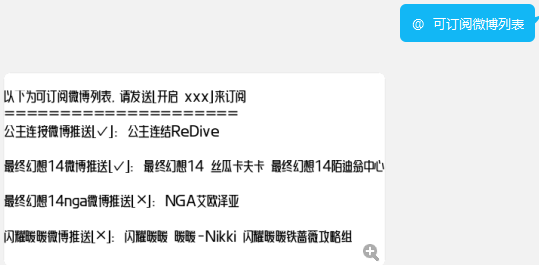
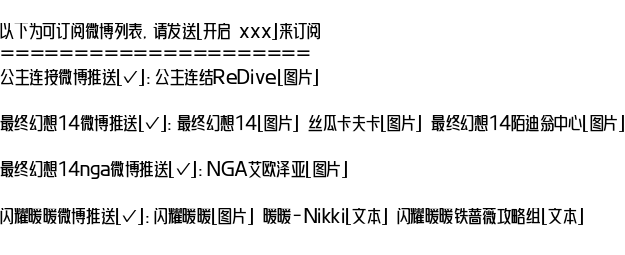
分推送组、用户提供format选项用来设定以文本推送或图片推送

diff --git a/__init__.py b/__init__.py
@@ -40,11 +40,18 @@ def _load_config():
         encoding="utf8",
     ) as f:
         configs = yaml.safe_load(f)
+    default_format = Config.get_config(Path(__file__).parent.name, "DEFAULT_FORMAT")
     for task_name, v in configs.items():
         enable_on_default = v["enable_on_default"]
         users = v["users"]
+        if "format" in v:
+            cur_format = v["format"]
+        else:
+            cur_format = default_format
         task_spider_list = []
         for user in users:
+            if "format" not in user:
+                user["format"] = cur_format
             wb_spider = WeiboSpider(user)
             task_spider_list.append(wb_spider)
         __plugin_task__[task_name] = v["desciption"]
@@ -76,10 +83,10 @@ __plugin_configs__ = {
         "help": "是否以转发模式推送微博，当配置项为true时将以转发模式推送",
         "default_value": False,
     },
-    "text_mode": {
-        "value": False,
-        "help": "是否以纯文字形式推送微博，当配置项为true时将以纯文字形式推送，反之则尽可能推送图片",
-        "default_value": False,
+    "default_format": {
+        "value": 1,
+        "help": "默认推送格式：0 文本，1 图片",
+        "default_value": 1,
     },
 }
 
@@ -103,7 +110,6 @@ weibo_update_username = on_command(
 
 driver: Driver = get_driver()
 forward_mode = Config.get_config(Path(__file__).parent.name, "FORWARD_MODE")
-text_mode = Config.get_config(Path(__file__).parent.name, "TEXT_MODE")
 
 
 @driver.on_startup
@@ -126,9 +132,12 @@ async def _(event: GroupMessageEvent):
     ret = []
     for task, spiders in tasks_dict.items():
         tmp = f'{__plugin_task__[task]}[{"√" if await group_manager.check_group_task_status(group_id, task) else "×"}]:'
+        users = []
         for spider in spiders:
-            tmp += " " + spider.get_username()
-        ret.append(tmp)
+            users.append(
+                f"{spider.get_username()}[{'图片' if spider.get_format() == 1 else '文本'}]"
+            )
+        ret.append(tmp + " ".join(users))
     await weibo_list.finish(
         image(b64=(await text2image(msg + "\n\n".join(ret) + "\n")).pic2bs4())
     )
@@ -203,8 +212,8 @@ async def wb_to_image(wb: Dict) -> bytes:
     return None
 
 
-async def process_wb(wb):
-    if not text_mode and (msg := await wb_to_image(wb)):
+async def process_wb(format: int, wb: Dict):
+    if format == 1 and (msg := await wb_to_image(wb)):
         return msg
     return wb_to_text(wb)
 
@@ -215,7 +224,8 @@ async def _():
         weibos = []
         for spider in spiders:
             latest_weibos = await spider.get_latest_weibos()
-            formatted_weibos = [(await process_wb(wb)) for wb in latest_weibos]
+            format = spider.get_format()
+            formatted_weibos = [(await process_wb(format, wb)) for wb in latest_weibos]
             if l := len(formatted_weibos):
                 logger.info(f"成功获取@{spider.get_username()}的新微博{l}条")
             else:

diff --git a/weibo_spider.py b/weibo_spider.py
@@ -29,6 +29,7 @@ class WeiboSpider(object):
         self.filter_retweet = config["filter_retweet"]
         self.user_id = config["user_id"]
         self.filter_words = config["filter_words"]
+        self.format = config["format"]
         self.received_weibo_ids = []
         self.__recent = False
         self.record_file_path = weibo_record_path / f"{self.user_id}.json"
@@ -80,6 +81,9 @@ class WeiboSpider(object):
     def get_username(self):
         return self.user_name
 
+    def get_format(self):
+        return self.format
+
     def save(self):
         with open(self.record_file_path, "w", encoding="utf8") as f:
             json.dump(self.received_weibo_ids, f, indent=4, ensure_ascii=False)
@@ -95,7 +99,7 @@ class WeiboSpider(object):
 
     def validate_config(self, config):
         """验证配置是否正确"""
-        exist_argument_list = ["user_id", "filter_words"]
+        exist_argument_list = ["user_id", "filter_words", "format"]
         true_false_argument_list = ["filter_retweet"]
 
         for argument in true_false_argument_list:

diff --git a/README.md b/README.md
@@ -4,15 +4,19 @@
 **在插件目录下的`weibo_config.yaml`中配置微博订阅项**
 
 **于真寻的`config.yaml`中改变插件的`FORWARD_MODE`配置项来设置是否以转发模式推送微博**
-> ~首次使用需要重启一次才可以在group_manager.json中增加配置项~
+
+**于真寻的`config.yaml`中改变插件的`DEFAULT_FORMAT`配置项来设置微博默认推送格式，可选格式为文本、图片**
+> format覆盖规则：组内用户配置项 > 推送组配置项 > 配置文件
 
 以下为微博订阅项说明
 ```yaml
 weibo-ff14:                         # 对应到config.yaml中_task下的DEFAULT_WEIBO_FF14
   desciption: 最终幻想14微博推送    # 群内开关，在群被动状态中可以查看，使用[开启/关闭 最终幻想14微博推送]即可控制
   enable_on_default: false          # 是否默认启用，对应到config.yaml中_task下的DEFAULT_WEIBO_FF14: False
+  format: 1                         # （可选配置项）（推送组配置项）若缺少该配置项，则以配置文件的default_format填充
   users:                            # 该推送组所包含的所有微博用户
   - user_id: '1797798792'           # 用户id, 博主主页打开控制台执行$CONFIG.oid获取
+    format: 0                       # （可选配置项）（组内用户配置项）若缺少该配置项，则以该推送组的format填充
     filter_retweet: false           # 是否仅推送原创（过滤转发），若是，则设定为true
     filter_words:                   # 屏蔽词，包含屏蔽词的微博将被过滤
     - 微博抽奖平台
